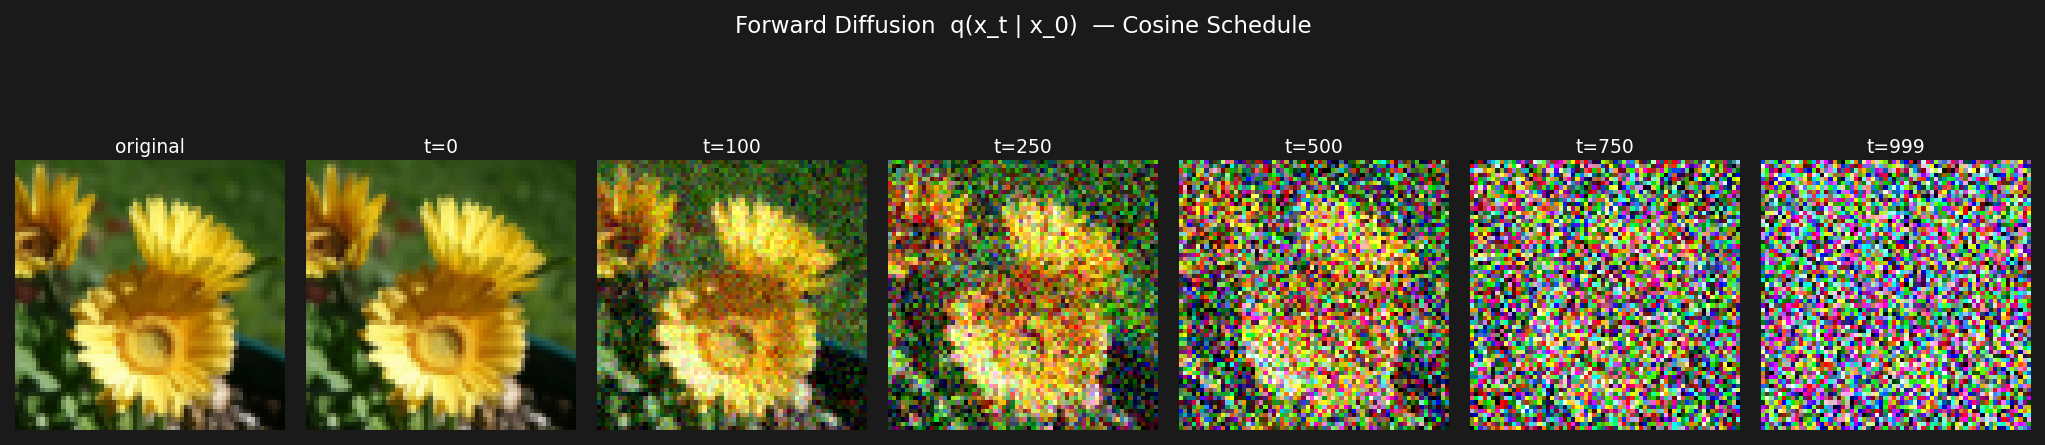
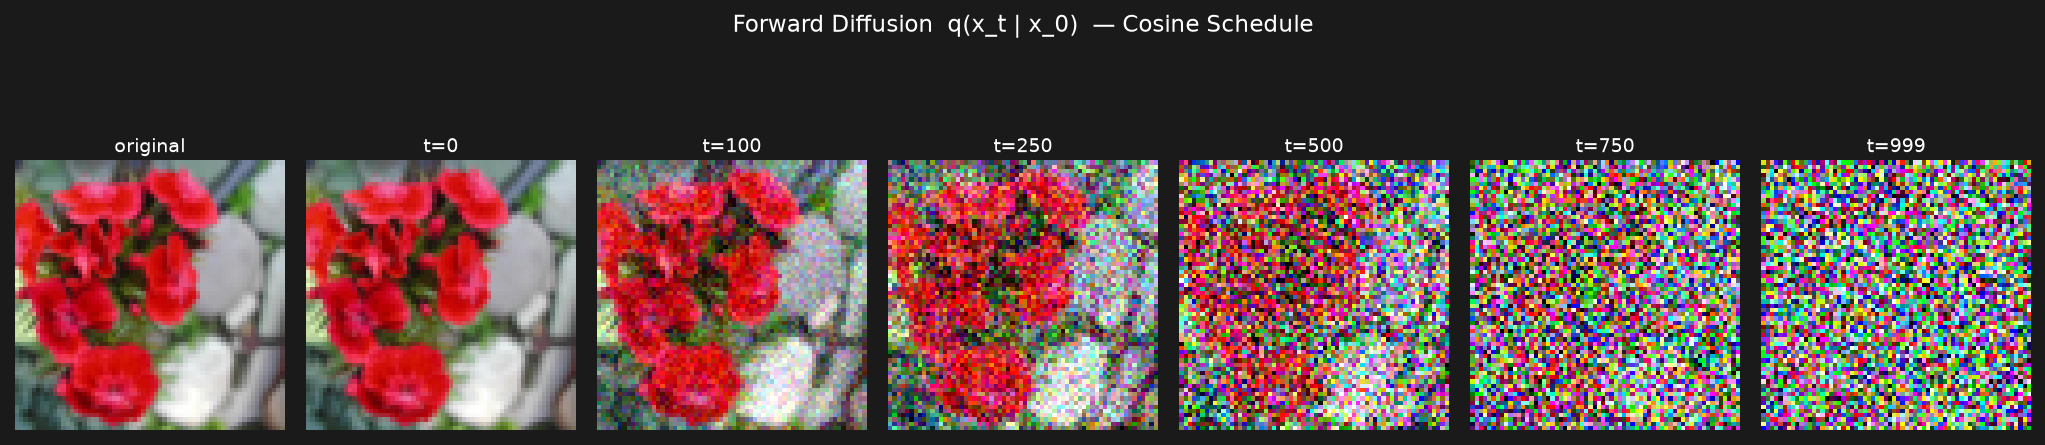
...

diff --git a/Autoencoder_generate.py b/Autoencoder_generate.py
@@ -1,0 +1,117 @@
+import time
+from pathlib import Path
+import torch
+from torchvision.utils import save_image, make_grid
+from Autoencoder import Autoencoder
+from Dataloader import get_dataloader
+
+def timestamp():
+    return time.strftime("%d_%H%M%S")
+
+def denormalize(x):
+    return ((x.clamp(-1, 1) + 1) / 2)
+
+# Load Autoencoder
+def load_autoencoder(checkpoint_path, device, latent_channels=4, base_channels=64):
+
+    autoencoder = Autoencoder(
+        in_channels=3,
+        latent_channels=latent_channels,
+        base_channels=base_channels,
+    ).to(device)
+
+    checkpoint = torch.load(checkpoint_path, map_location=device)
+    autoencoder.load_state_dict(checkpoint["model_state_dict"])
+    autoencoder.eval()
+
+    return autoencoder
+
+# Generation
[email redacted]_grad()
+def generate(autoencoder_checkpoint, num_generations= None,
+    latent_channels=4, output_root="outputs/samples"):
+
+    device = ("cuda" if torch.cuda.is_available() else "cpu")
+    print(f"Device: {device}")
+
+    autoencoder = load_autoencoder(
+        autoencoder_checkpoint,
+        device=device,
+        latent_channels=latent_channels,
+    )
+
+    dataloader = get_dataloader(
+        root="datasets/flowers",
+        image_size=64,
+        batch_size=32,
+        num_workers=0
+    )
+
+    checkpoint_name = Path(autoencoder_checkpoint).stem
+    run_name = "_".join(checkpoint_name.split("_")[:3])
+    run_dir = Path(output_root) / run_name
+    run_dir.mkdir(parents=True, exist_ok=True)
+    print(f"Saving samples to:")
+    print(run_dir)
+
+
+    num_generations = num_generations if num_generations else len(dataloader)
+    generated = []
+    total_start = time.perf_counter()
+
+    for iter, images in enumerate(dataloader):
+        print("remaining:", num_generations-iter)
+        image_start = time.perf_counter()
+
+        generated_images = autoencoder.forward(images)
+
+        imagetime = (time.perf_counter() - image_start)
+
+        generated.append(generated_images.cpu())
+
+        if num_generations== iter:
+            break
+
+    total_time = (time.perf_counter() - total_start)
+    generated = torch.cat(generated, dim=0)
+
+    generated = denormalize(generated)
+
+    # Save individual images
+    for idx, image in enumerate(generated):
+        save_image(image, run_dir / f"sample_{idx:04d}.png")
+
+    # Grid of all generated images for overwiev
+    grid = make_grid(generated, nrow=int(num_generations ** 0.5), normalize=False)
+    save_image(grid, run_dir / "grid.png")
+
+    # Measure average generation time
+    avg_image_time = (
+        total_time / num_generations
+    )
+
+    print("\nGeneration complete")
+    print(f"Images: {num_generations}")
+    print(f"Total time: {total_time:.2f}s")
+    print(
+        f"Average/image: "
+        f"{avg_image_time:.3f}s"
+    )
+
+    return generated
+
+def main():
+    autoencoder_checkpoint = (
+        "outputs/checkpoints/"
+        "flowers_autoencoder_epoch50_20260616_220930.pt"
+    )
+
+    generate(
+        autoencoder_checkpoint=autoencoder_checkpoint,
+        latent_channels=4,
+        num_generations= 5,
+    )
+
+
+if __name__ == "__main__":
+    main()

diff --git a/Autoencoder.py b/Autoencoder.py
@@ -7,6 +7,10 @@ class ResBlock(nn.Module):
     def __init__(self, in_ch, out_ch):
         super().__init__()
 
+        # groups = min(8, in_ch)
+        # self.norm1 = nn.GroupNorm(groups, in_ch)
+        # self.norm2 = nn.GroupNorm(8, out_ch)
+
         self.conv1 = nn.Conv2d(in_ch, out_ch, 3, padding=1)
         self.conv2 = nn.Conv2d(out_ch, out_ch, 3, padding=1)
 
@@ -19,8 +23,8 @@ class ResBlock(nn.Module):
         )
 
     def forward(self, x):
-        h = self.act(self.conv1(x))
-        h = self.conv2(h)
+        h = self.act(self.conv1(x)) #self.norm1(x)))
+        h = self.conv2(h) #self.norm2(h))
         return self.act(h + self.skip(x))
 
 
@@ -103,7 +107,7 @@ class Decoder(nn.Module):
 
 # Autoencoder
 class Autoencoder(nn.Module):
-    def __init__(self, in_channels=3, latent_channels=4, base_channels=64):
+    def __init__(self, in_channels=3, latent_channels=16, base_channels=64):
         super().__init__()
 
         self.encoder = Encoder(

diff --git a/Diffusion.py b/Diffusion.py
@@ -54,6 +54,7 @@ class GaussianDiffusion:
         if noise is None:
             noise = torch.randn_like(x0) # Sample noise
 
+        # for elemenwise multiplication
         sqrt_a = self.sqrt_alphas_cumprod[t][:, None, None, None]
         sqrt_1a = self.sqrt_one_minus_alphas_cumprod[t][:, None, None, None]
 
@@ -65,6 +66,10 @@ class GaussianDiffusion:
         return torch.randint(0, self.timesteps, (batch_size,), device=self.device)
     
     # Function to reverse a step of noise
+    
+
+    # BACKWARD PROCESS ????##
+
     @torch.no_grad()
     def p_sample(self, model, x, t):
         betas_t = self.betas[t][:, None, None, None] # [B, 1, 1, 1]
@@ -93,5 +98,5 @@ class GaussianDiffusion:
         for timestep in reversed(range(self.timesteps)):
             t = torch.full((batch_size,), timestep, device=self.device, dtype=torch.long) # Timestep for Batch B
             x = self.p_sample(model, x, t)
-
+        print("image done")
         return x

diff --git a/Dataloader.py b/Dataloader.py
@@ -25,7 +25,11 @@ class FlowersDataset(Dataset):
         return len(self.paths)
 
     def __getitem__(self, idx):
-        img = Image.open(self.paths[idx]).convert("RGB")
+        try:
+            img = Image.open(self.paths[idx]).convert("RGB")
+        except Exception as e:
+            print("Bad image:", self.paths[idx])
+            raise e
         return self.transform(img)
 
 

diff --git a/test2.py b/test2.py
@@ -22,7 +22,7 @@ def find_checkpoint(epoch: int):
     return matches[-1]
 
 
-def generate_from_epochs(epochs, num_images=16, batch_size=8, image_size=64, timesteps=1000,):
+def generate_from_epochs(epochs, num_images=16, batch_size=8, image_size=64, timesteps=1000,num_generations = None):
 
     for epoch in epochs:
 
@@ -39,12 +39,13 @@ def generate_from_epochs(epochs, num_images=16, batch_size=8, image_size=64, tim
             batch_size=batch_size,
             image_size=image_size,
             timesteps=timesteps,
+            num_generations= num_generations,
         )
 
 
 def main():
 
-    epochs = [20, 40, 60, 80, 100, 120, 140, 160, 180, 200]
+    epochs = [180] # [20, 40, 60, 80, 100, 120, 140, 160, 180, 200]
 
     generate_from_epochs(
         epochs=epochs,
@@ -52,6 +53,7 @@ def main():
         batch_size=8,
         image_size=64,
         timesteps=1000,
+        num_generations=10,
     )
 
 

diff --git a/DDPM_generate.py b/DDPM_generate.py
@@ -45,6 +45,7 @@ def generate(
     batch_size=16,
     image_size=64,
     timesteps=1000,
+    num_generations = None,
     schedule="cosine",
     output_root="outputs/samples",):
 
@@ -72,10 +73,10 @@ def generate(
 
     generated = []
     total_start = time.perf_counter()
-    remaining = num_images
+    remaining = num_generations if num_generations else num_images
 
     while remaining > 0:
-
+        print("remaining:", remaining)
         current_batch = min(batch_size, remaining)
         batch_start = time.perf_counter()
 

diff --git a/DDPM_train.py b/DDPM_train.py
@@ -112,11 +112,11 @@ def main():
         diffusion=diffusion,
         dataloader=dataloader,
         device=device,
-        epochs=200,
+        epochs=1, #200,
         log_every=100,
         run_name=run_name,
         save_dir=save_dir,
-        save_every_epochs=20
+        save_every_epochs=1
     )
 
     os.makedirs(save_dir, exist_ok=True)

diff --git a/test1.py b/test1.py
@@ -89,7 +89,7 @@ def main():
     # ── 2. Diffusion ──────────────────────────────────────────────────────────
     diff = GaussianDiffusion(timesteps=args.timesteps, schedule="cosine", device=device)
     x0 = batch[:1].to(device)          # erstes Bild aus dem Batch
-
+    # Here: only example for one picture 
     timesteps_to_show = [0, 100, 250, 500, 750, 999]
     noisy_images = []
     for t_val in timesteps_to_show:

diff --git a/test3.py b/test3.py
@@ -81,7 +81,7 @@ def main():
     print("\nLoading trained autoencoder...")
     model_trained = Autoencoder().to(device)
 
-    checkpoint_path = "outputs/checkpoints/flowers_autoencoder_epoch50_20260614_171314.pt"
+    checkpoint_path = "outputs/checkpoints/flowers_autoencoder_epoch50_32_20260616_232241.pt" #flowers_autoencoder_epoch50_16_20260616_223642.pt" # flowers_autoencoder_epoch40_16_20260616_223642.pt" # flowers_autoencoder_epoch20_16_20260616_223642.pt" # flowers_autoencoder_epoch50_20260616_220930.pt"
     checkpoint = torch.load(checkpoint_path, map_location=device)
     model_trained.load_state_dict(checkpoint["model_state_dict"])
 